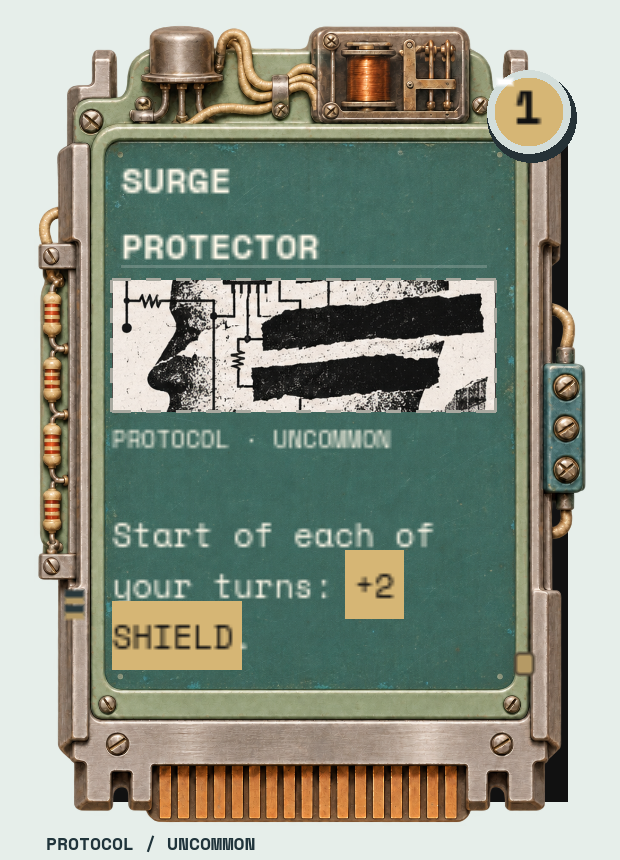
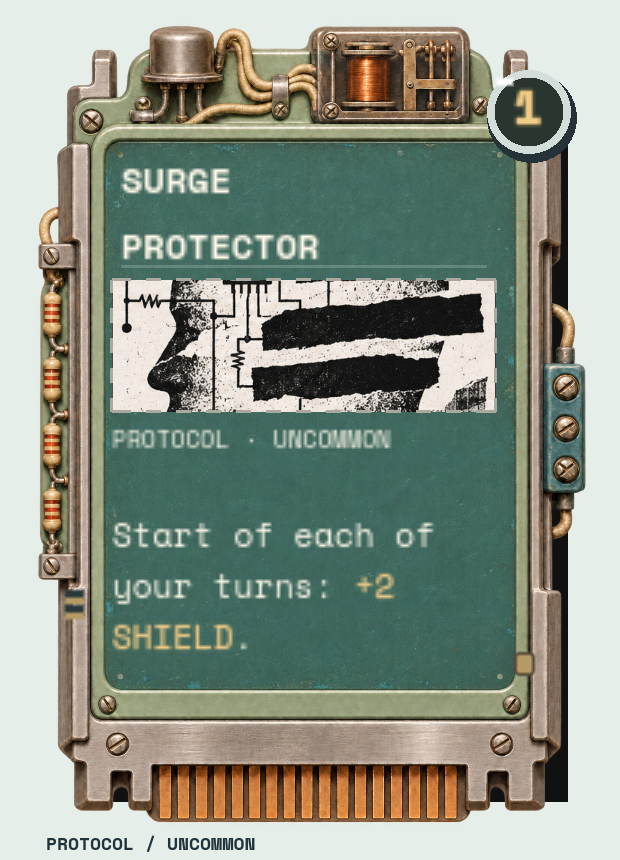
CARDS-001: glow amber text directly on board faces

Changed region(s): [[0.1532, 0.6953, 0.3984, 0.786], [0.5516, 0.6349, 0.6742, 0.7256], [0.7968, 0.0907, 0.9194, 0.1814]]

diff --git a/docs/HANDOFF.md b/docs/HANDOFF.md
@@ -46,7 +46,7 @@ ZEROED-001, its RIOT cards, and TUMBLE-001 are built; see the tagged rows below.
 
 | IDs | Change | Commit reference |
 |---|---|---|
-| CARDS-001 | Heavy SCRIPT/PROGRAM/PROTOCOL slot-cartridge templates; external BW rating tabs; brown/olive/teal board faces, oxide-red Whirlwind Bloatware and direct-print titles; common/uncommon/rare finish details; protected protrusions; nine close-ups and six/eight-card captures. Types, rarity weights, costs and rules unchanged. | **BUILT** — `cards-001-amber` |
+| CARDS-001 | Heavy SCRIPT/PROGRAM/PROTOCOL slot-cartridge templates; external BW rating tabs; brown/olive/teal board faces, oxide-red Whirlwind Bloatware and direct-print titles; common/uncommon/rare finish details; protected protrusions; nine close-ups and six/eight-card captures. Types, rarity weights, costs and rules unchanged. | **BUILT** — `cards-001-amber-glow` |
 | CHROME-001 | Refine the CAPTCHA encounter in the designer-selected Chrome Deco direction: readable real rules/cards, illustrated mascot shells, atrium, corporate escalation and native interaction feedback. Ten refreshed full-screen PNG samples; pearl-enamel ICE service plaques; type-specific heavy slot cartridges with outside BW tabs and restrained rarity finishes; prototype art and final fidelity await review. | **BUILT** — `chrome-001-enamel` (code `chrome-001-step5`) |
 | VIS-001 | The Friendly Lie encounter: fonts/skins, zine hand/HUD, mascot scans and moods, corporation break states, drag/motion/accessibility, seven PNG review fixtures. Visual only; ZEROED/TUMBLE integrated first. | **BUILT** — `vis-001g` (steps `vis-001a`–`vis-001g`) |
 | TUMBLE-001 | Remove broken TUMBLER subs and tumble immediately active replacements | **BUILT** — `zeroed-tumble-step3` |

diff --git a/docs/REDLINE_DEVELOPMENT_LOG.md b/docs/REDLINE_DEVELOPMENT_LOG.md
@@ -534,3 +534,9 @@ GENERALIST also has two stalls, counted separately from deaths. Mean end decks G
 **Interpretations to confirm:** exact amber hue is a visual proposal for designer review. PR #12 remains open.
 
 **Validation:** 357 rules checks and 625 cartridge UI checks pass; updated four-type PNG rendered from live Godot controls.
+
+## 2026-11-17 — CARDS-001: glowing text instead of amber blocks (Codex)
+
+**Commit tag:** `cards-001-amber-glow`. Designer requested glowing amber text instead of highlighted backgrounds. Numeric rule text now uses warm amber ink (`#F2CD87`) with a faint translucent amber halo; removed rectangular fills. External BW badges use a dark instrument face and glowing amber numerals. Board textures stay visible.
+
+**Interpretations to confirm:** restrained halo intensity and dark BW instrument face are proposed treatments. No gameplay changes. 625 cartridge UI checks pass; refreshed live-control comparison and card/hand PNGs. PR #12 remains open for review.
